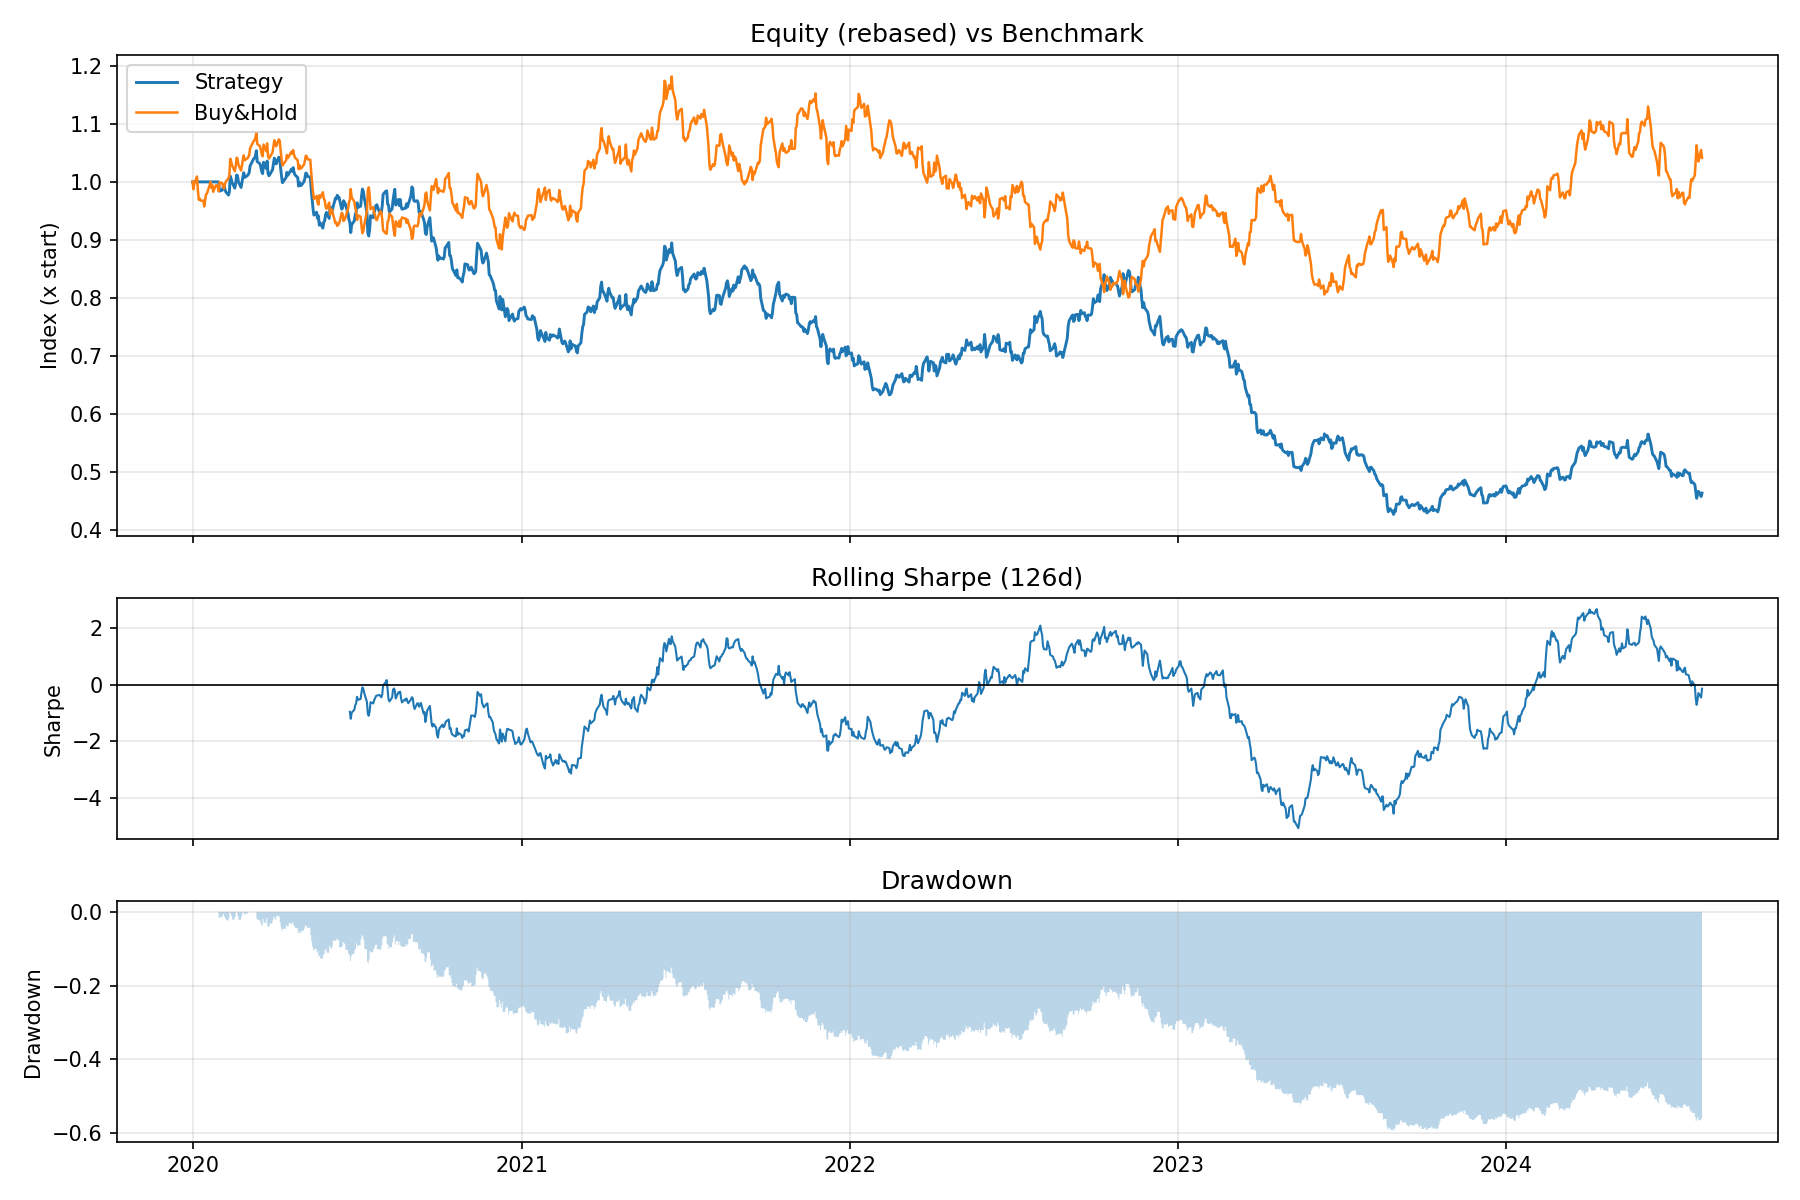
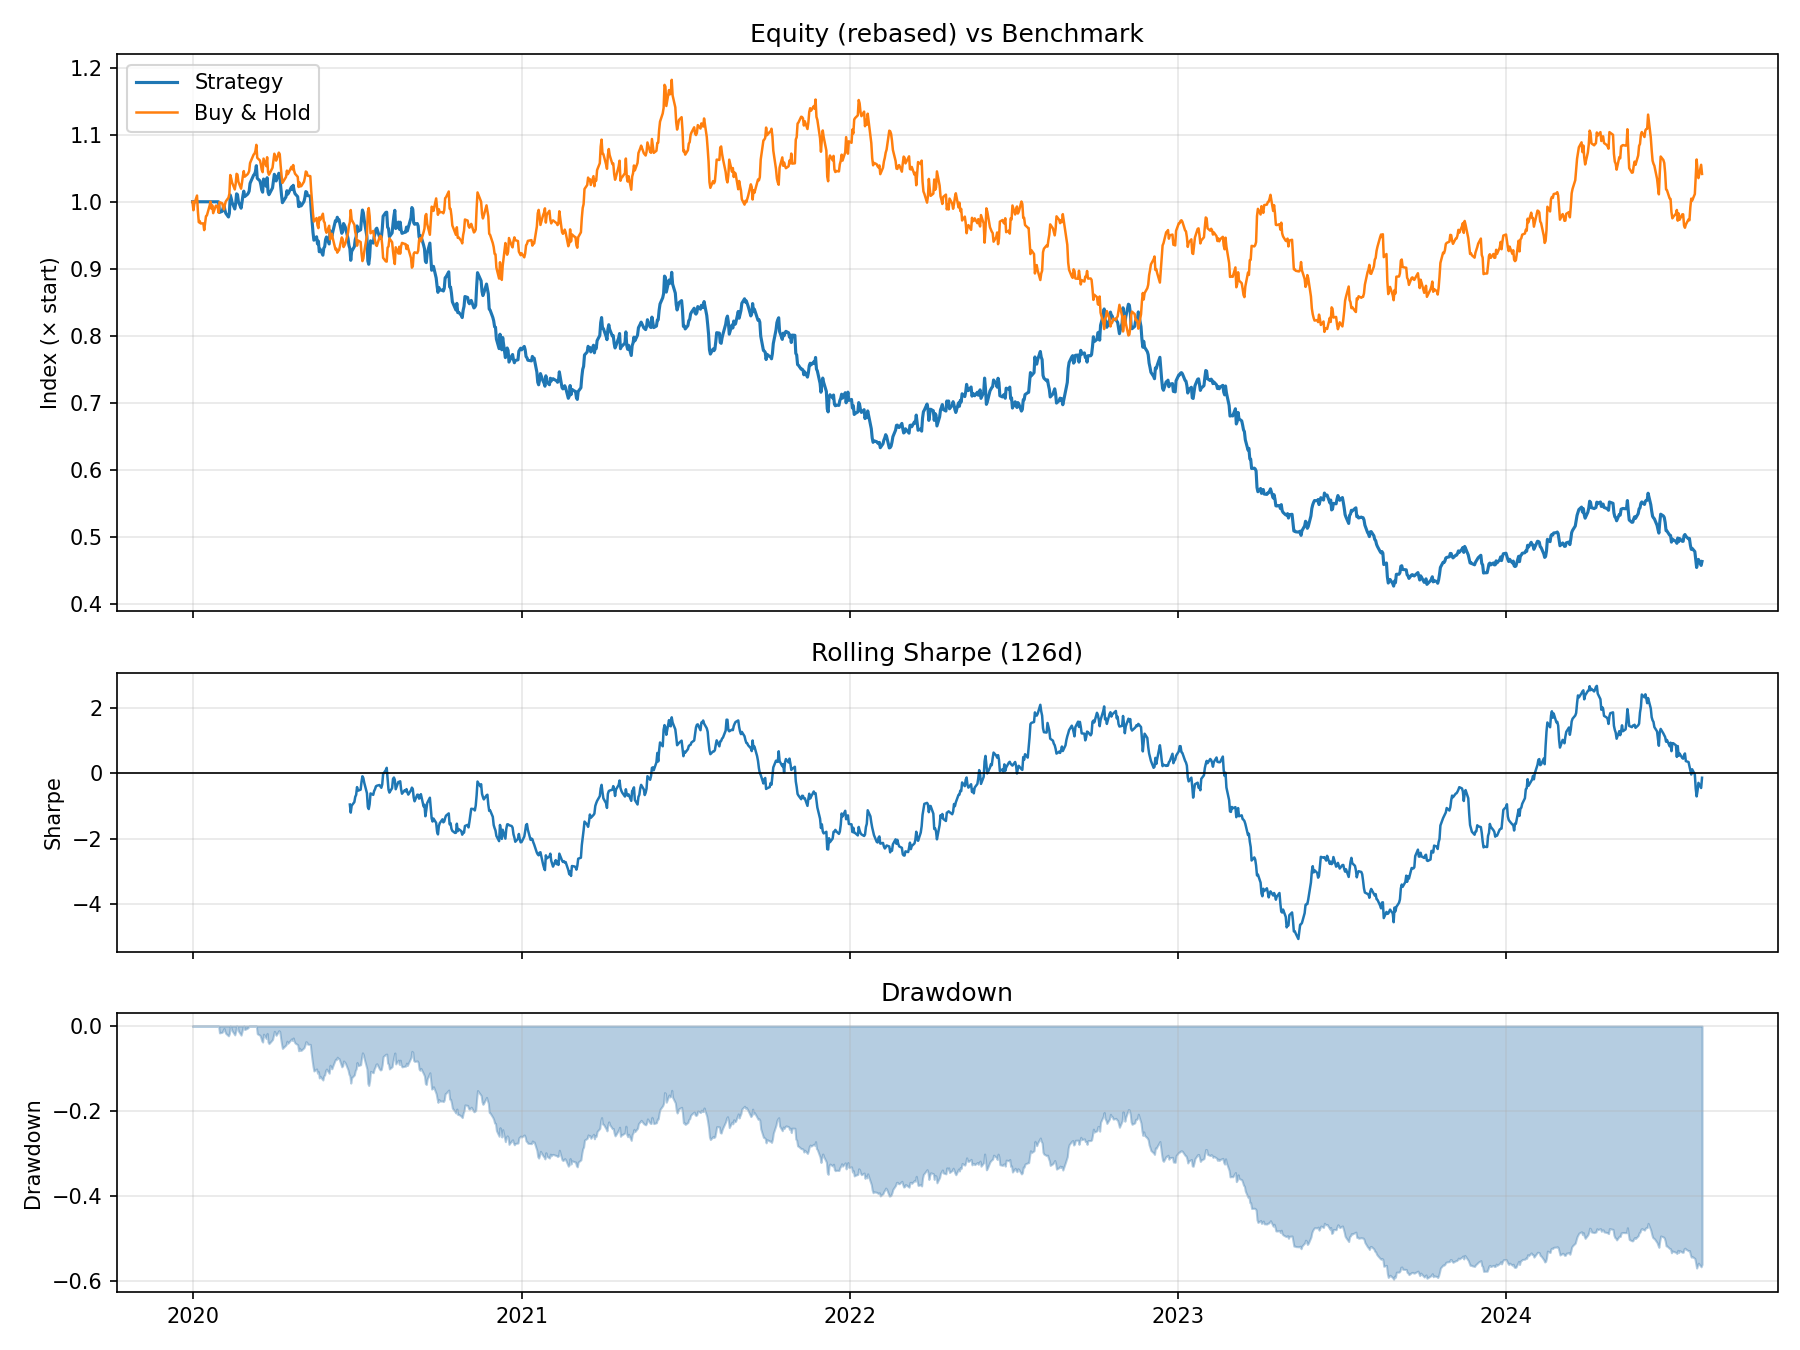
Add complete tear sheet reporting module with equity, drawdown and rolling Sharpe summary

diff --git a/scripts/make_report.py b/scripts/make_report.py
@@ -1,93 +1,156 @@
 # scripts/make_report.py
-# Build a tear sheet for the plain SMA 20/100 crossover strategy.
-#
-# You run this file to:
-# - load prices (or generate synthetic ones),
-# - build SMA crossover positions,
-# - run the backtest,
-# - compute stats and a tear sheet figure,
-# - save the figure + metrics to the /data folder.
-
-from __future__ import annotations
+"""
+Run an SMA(20/100) backtest and generate a simple performance report:
+- Print summary metrics from BacktestResult.metrics
+- Plot a tear sheet (equity vs buy & hold, rolling Sharpe, drawdown)
+- Save the tear sheet as PNG in data/tear_sheet.png
+"""
 
 import os
 import sys
 
 import matplotlib.pyplot as plt
+import numpy as np
 import pandas as pd
 
-# ---- Make sure we can import from the project root ----
-PROJECT_ROOT = os.path.dirname(os.path.dirname(__file__))
-if PROJECT_ROOT not in sys.path:
-    sys.path.append(PROJECT_ROOT)
+# --- Make the project root importable (quant-journey) ---
+sys.path.append(os.path.dirname(os.path.dirname(__file__)))
 
 from utils.data_loader import load_prices
 from backtesting.ma_crossover import sma_crossover_positions
 from backtesting.engine import run_backtest
-from backtesting.report import (
-    compute_rolling_sharpe,
-    compute_drawdown,
-    summarize_equity,
-    plot_tear_sheet,
-)
 
 
-def main() -> None:
-    # 1) Load prices (utils/data_loader.py will create synthetic data if file is missing)
-    df = load_prices()  # dataframe with at least a "price" column
-    price = df["price"].astype(float)
+# ---------------------------------------------------------------------
+# Helper functions for risk / performance
+# ---------------------------------------------------------------------
+def compute_drawdown(equity: pd.Series) -> pd.Series:
+    """
+    Compute drawdown series from an equity curve.
 
-    # 2) Base SMA crossover signal (no vol targeting, no stops here)
-    pos_raw = sma_crossover_positions(price, short=20, long=100)
+    Drawdown_t = equity_t / max_{s <= t}(equity_s) - 1
+    """
+    eq = equity.astype(float)
+    running_max = eq.cummax()
+    dd = eq / running_max - 1.0
+    dd.name = "drawdown"
+    return dd
 
-    # For this report we just use the raw SMA signal
-    pos_final = pos_raw
 
-    # 3) Run the backtest
-    result = run_backtest(
-        df,          # full dataframe, engine will grab df["price"]
-        pos_final,   # positions in {-1, 0, +1}
-        cost_bps=1.0,
-        # initial_capital=1.0,  # uncomment if your engine supports this
+def rolling_sharpe(returns: pd.Series, window: int = 126, ann_factor: int = 252) -> pd.Series:
+    """
+    Compute rolling Sharpe ratio on a rolling window.
+
+    We assume daily simple returns and use:
+        Sharpe = mean(ret) / std(ret) * sqrt(ann_factor)
+    """
+    r = returns.astype(float)
+    roll_mean = r.rolling(window).mean()
+    roll_std = r.rolling(window).std(ddof=1)
+    sharpe = roll_mean / roll_std * np.sqrt(ann_factor)
+    sharpe.name = f"rolling_sharpe_{window}"
+    return sharpe
+
+
+# ---------------------------------------------------------------------
+# Tear sheet plotting
+# ---------------------------------------------------------------------
+def plot_tear_sheet(
+    price: pd.Series,
+    equity: pd.Series,
+    strategy_returns: pd.Series,
+    out_png: str | None = None,
+) -> None:
+    """
+    Plot a simple tear sheet with:
+    - Strategy equity vs buy & hold (both rebased to 1.0)
+    - Rolling Sharpe (126 days)
+    - Drawdown
+    """
+    # Rebase strategy equity to 1.0
+    eq = equity.astype(float)
+    eq_rebased = eq / eq.iloc[0]
+
+    # Buy & hold benchmark (also rebased)
+    bh = price.astype(float) / price.iloc[0]
+    bh.name = "buy_and_hold"
+
+    # Drawdown and rolling Sharpe
+    dd = compute_drawdown(eq)
+    roll_sh = rolling_sharpe(strategy_returns, window=126)
+
+    fig, (ax1, ax2, ax3) = plt.subplots(
+        3,
+        1,
+        figsize=(12, 9),
+        sharex=True,
+        gridspec_kw={"height_ratios": [2, 1, 1]},
     )
 
-    equity = result.equity.astype(float)
-    rets = result.returns.astype(float)
+    # 1) Equity vs benchmark
+    ax1.plot(eq_rebased.index, eq_rebased, label="Strategy", lw=1.5)
+    ax1.plot(bh.index, bh, label="Buy & Hold", lw=1.2)
+    ax1.set_ylabel("Index (× start)")
+    ax1.set_title("Equity (rebased) vs Benchmark")
+    ax1.legend()
+    ax1.grid(alpha=0.3)
 
-    # 4) Rebase equity and benchmark to 1.0 for nicer comparison
-    equity_rebased = equity / equity.iloc[0]
-    benchmark_rebased = price / price.iloc[0]
+    # 2) Rolling Sharpe
+    ax2.plot(roll_sh.index, roll_sh, lw=1.2)
+    ax2.axhline(0.0, color="black", lw=0.8)
+    ax2.set_ylabel("Sharpe")
+    ax2.set_title("Rolling Sharpe (126d)")
+    ax2.grid(alpha=0.3)
 
-    # 5) Rolling Sharpe + drawdown
-    rolling_sharpe = compute_rolling_sharpe(rets, window=126, periods_per_year=252)
-    drawdown = compute_drawdown(equity)
+    # 3) Drawdown
+    ax3.fill_between(dd.index, dd, 0.0, color="steelblue", alpha=0.4)
+    ax3.set_ylabel("Drawdown")
+    ax3.set_title("Drawdown")
+    ax3.grid(alpha=0.3)
 
-    # 6) Print a small summary in the terminal
-    stats = summarize_equity(equity, rets)
-    print("\n===== Summary =====")
-    for k, v in stats.items():
-        if "dd" in k:
-            print(f"{k:22s}: {v: .2%}")
-        else:
-            print(f"{k:22s}: {v: .4f}")
+    plt.tight_layout()
 
-    print("\nFinal equity:", round(equity.iloc[-1], 2))
+    if out_png is not None:
+        os.makedirs(os.path.dirname(out_png), exist_ok=True)
+        plt.savefig(out_png, dpi=150)
+        print(f"[OK] Tear sheet saved → {out_png}")
 
-    # 7) Save summary metrics to CSV (nice for your README or further analysis)
-    metrics_csv = os.path.join(PROJECT_ROOT, "data", "sma_report_metrics.csv")
-    os.makedirs(os.path.dirname(metrics_csv), exist_ok=True)
-    pd.Series(stats).to_csv(metrics_csv)
-    print(f"[OK] Metrics saved -> {metrics_csv}")
+    plt.show()
 
-    # 8) Plot tear sheet and save the figure
-    tear_sheet_path = os.path.join(PROJECT_ROOT, "data", "tear_sheet.png")
+
+# ---------------------------------------------------------------------
+# Main script
+# ---------------------------------------------------------------------
+def main():
+    # 1) Load prices (CSV or synthetic if file is missing)
+    df = load_prices()
+    price = df["price"]
+
+    # 2) Build SMA crossover positions (+1 / 0 / -1)
+    positions = sma_crossover_positions(price, short=20, long=100)
+
+    # 3) Run backtest with your engine (note: cost_bps, not trans_cost_bps)
+    result = run_backtest(
+        df,                # can pass the full DataFrame (engine will use "price")
+        positions,
+        cost_bps=1.0,
+        initial_capital=1.0,
+    )
+
+    # 4) Print summary metrics
+    print("\n===== Summary metrics =====")
+    for k, v in result.metrics.items():
+        print(f"{k:25s}: {v: .4f}")
+
+    print(f"{'Final equity':25s}: {result.equity.iloc[-1]: .4f}")
+
+    # 5) Plot tear sheet and save to PNG
+    out_png = os.path.join(os.path.dirname(os.path.dirname(__file__)), "data", "tear_sheet.png")
     plot_tear_sheet(
-        equity_rebased=equity_rebased,
-        benchmark_rebased=benchmark_rebased,
-        rolling_sharpe=rolling_sharpe,
-        drawdown=drawdown,
-        title="Equity (rebased) vs Benchmark",
-        save_path=tear_sheet_path,
+        price=price,
+        equity=result.equity,
+        strategy_returns=result.returns,
+        out_png=out_png,
     )
 
 

diff --git a/backtesting/report.py b/backtesting/report.py
@@ -58,7 +58,30 @@ def rolling_sharpe(returns: pd.Series, window: int = 126) -> pd.Series:
     r = returns.astype(float)
     roll_mean = r.rolling(window).mean()
     roll_std = r.rolling(window).std(ddof=1)
+
     sharpe = roll_mean / roll_std * np.sqrt(252.0)
+    sharpe.name = f"rolling_sharpe_{window}"
+    return sharpe
+
+
+def compute_rolling_sharpe(
+    returns: pd.Series,
+    window: int = 126,
+    ann_factor: int = 252,
+) -> pd.Series:
+    """
+    Backward-compatible wrapper used by some scripts.
+
+    It does the same thing as `rolling_sharpe`, but with an explicit
+    annualization factor argument so older imports still work:
+        from backtesting.report import compute_rolling_sharpe
+    """
+    r = returns.astype(float)
+    roll_mean = r.rolling(window).mean()
+    roll_std = r.rolling(window).std(ddof=1)
+
+    sharpe = roll_mean / roll_std * np.sqrt(float(ann_factor))
+    sharpe = sharpe.replace([np.inf, -np.inf], np.nan).fillna(0.0)
     sharpe.name = f"rolling_sharpe_{window}"
     return sharpe
 
